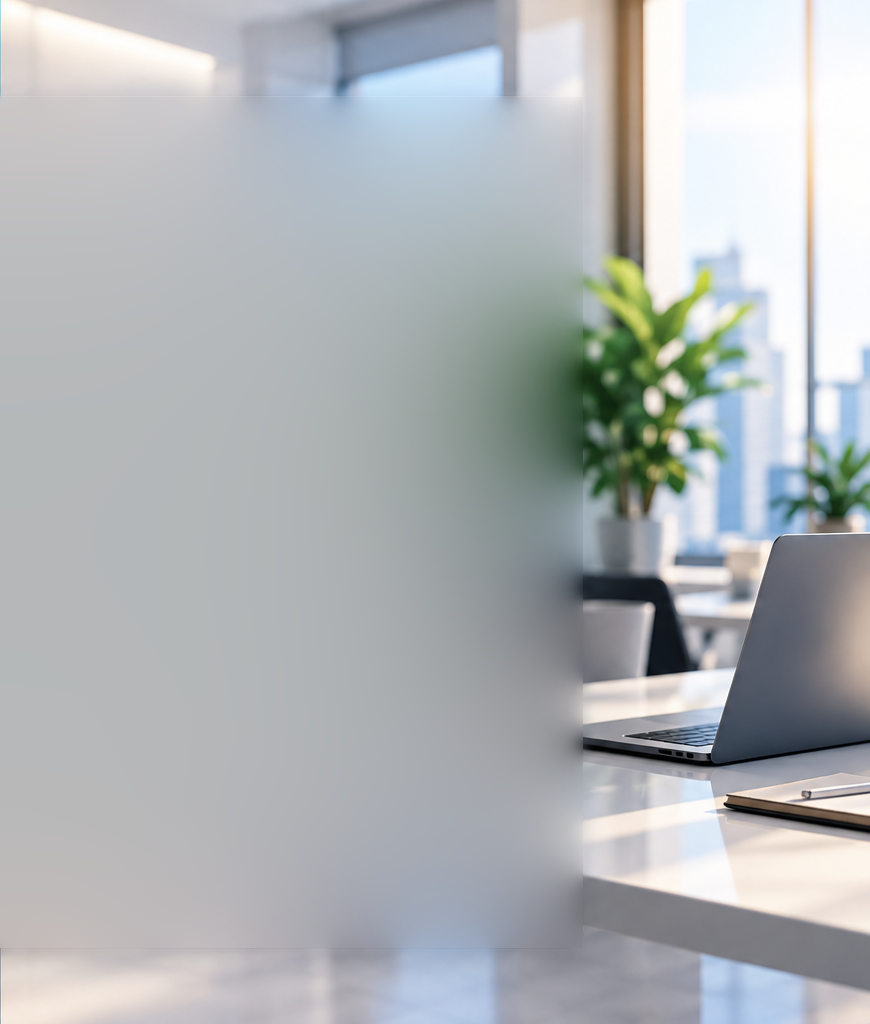
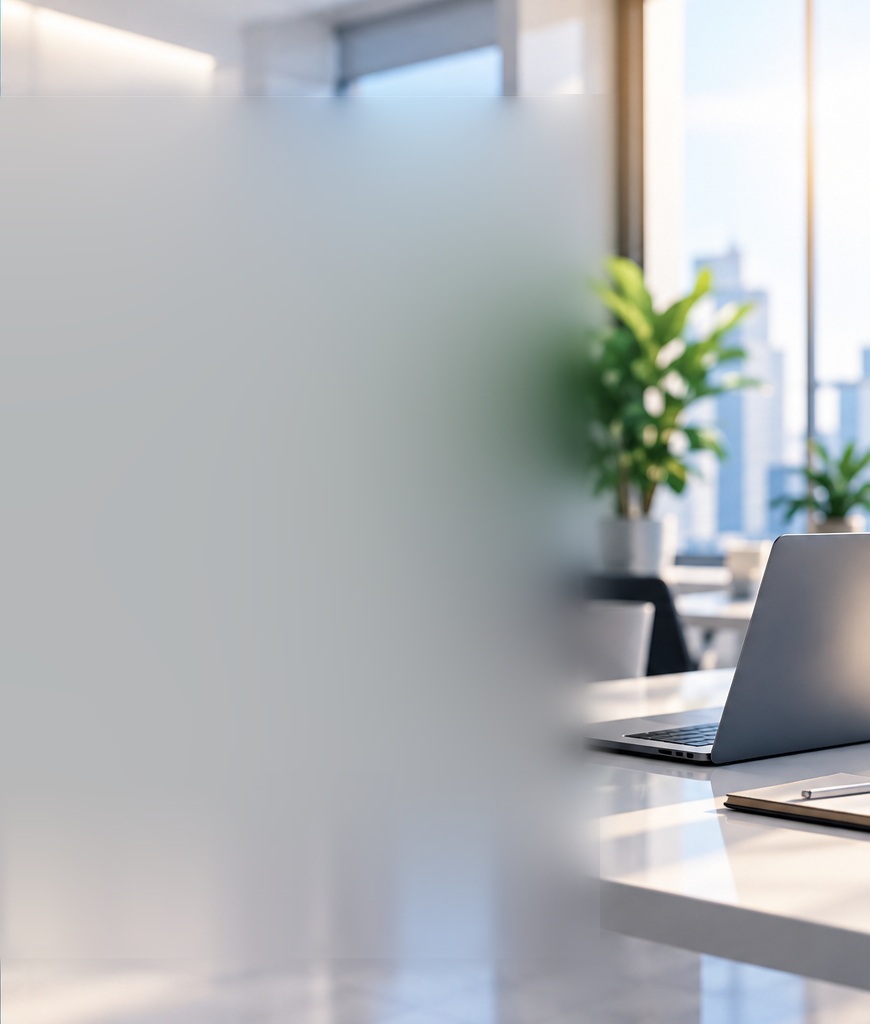
fix: activation spec weight, pitch size, office photo edges, eye hover (R25)

diff --git a/apps/web/src/components/auth/sign-in.tsx b/apps/web/src/components/auth/sign-in.tsx
@@ -115,13 +115,13 @@ export function SignIn({
                 className="pointer-events-none absolute top-12 left-5 h-6 w-6 text-muted"
               />
               <Button
-                className="absolute top-10 right-2"
+                className="group absolute top-10 right-2"
                 variant="ghost"
                 aria-label={show ? 'Hide password' : 'Show password'}
                 aria-pressed={show}
                 onClick={() => setShow(!show)}
               >
-                <Eye aria-hidden="true" className="h-6 w-6 text-muted" />
+                <Eye aria-hidden="true" className="h-6 w-6 text-muted group-hover:text-text" />
               </Button>
             </div>
             <div className="flex items-center justify-between gap-2 text-base">

diff --git a/packages/ui/src/auth.css b/packages/ui/src/auth.css
@@ -34,11 +34,11 @@
   --auth-description-width: 26.5rem;
   --auth-feature-copy-width: 15rem;
   --auth-logo-light-width: 24.25rem;
-  --auth-logo-light-height: 9.625rem;
+  --auth-logo-light-height: 8.625rem;
   --auth-logo-width: 22.9375rem;
   --auth-logo-height: 8.25rem;
   --auth-title-size: 2.125rem;
-  --auth-pitch-size: 2.375rem;
+  --auth-pitch-size: 2.25rem;
   --auth-card-radius: 1.5rem;
   --auth-control-height: 3.625rem;
   --auth-control-radius: 0.6875rem;
@@ -200,8 +200,6 @@
 .auth-form input[type='checkbox'] {
   width: var(--auth-checkbox-size);
   height: var(--auth-checkbox-size);
-  border-radius: var(--radius-sm);
-  border-color: var(--auth-line);
 }
 .auth-form label:has(input[type='checkbox']) {
   min-height: auto;

diff --git a/apps/web/e2e/mock/scrum-activate.spec.ts b/apps/web/e2e/mock/scrum-activate.spec.ts
@@ -58,7 +58,7 @@ test('if setup cannot start after activating, the person signs in to finish', as
   await expect(page.getByTestId('activation-done')).toContainText('Your account is activated');
   const signIn = page.getByRole('link', { name: 'Go to sign in' });
   await expect(signIn).toHaveAttribute('href', '/sign-in');
-  await expect(signIn).toHaveCSS('font-weight', '500');
+  await expect(signIn).toHaveCSS('font-weight', '600');
   await expect(page.getByLabel('New password')).toHaveCount(0);
 });
 
